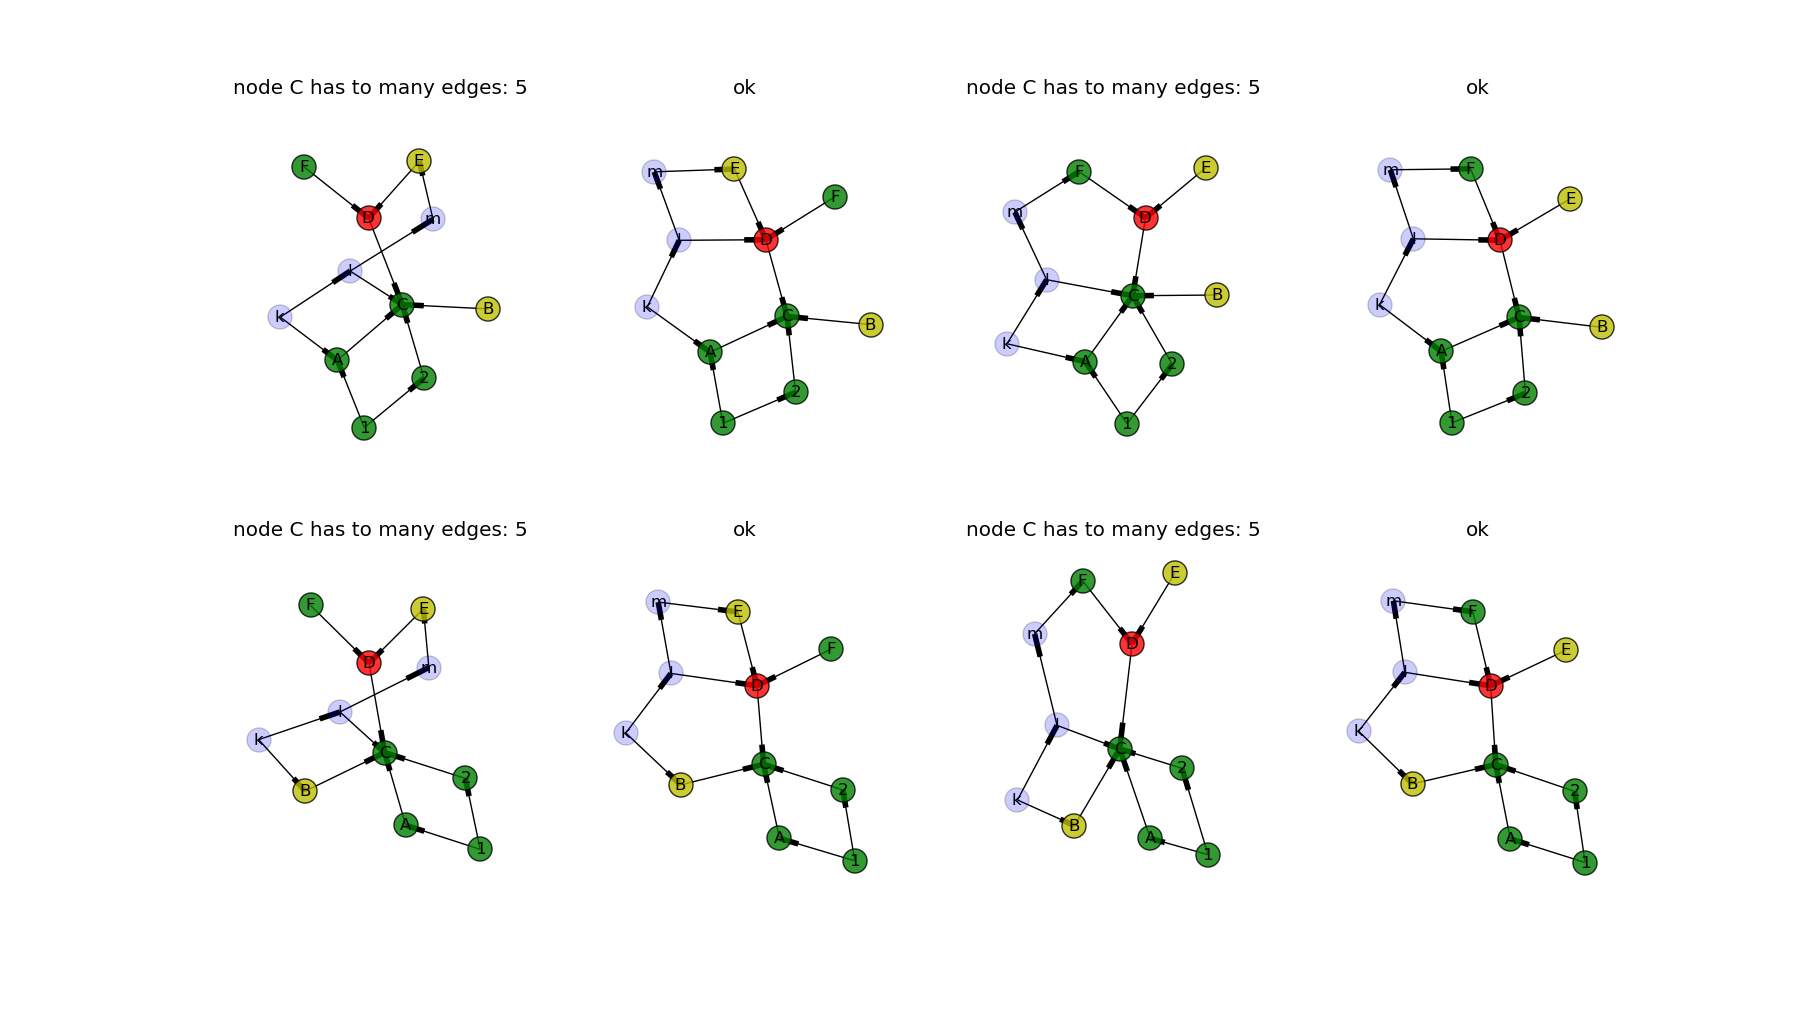
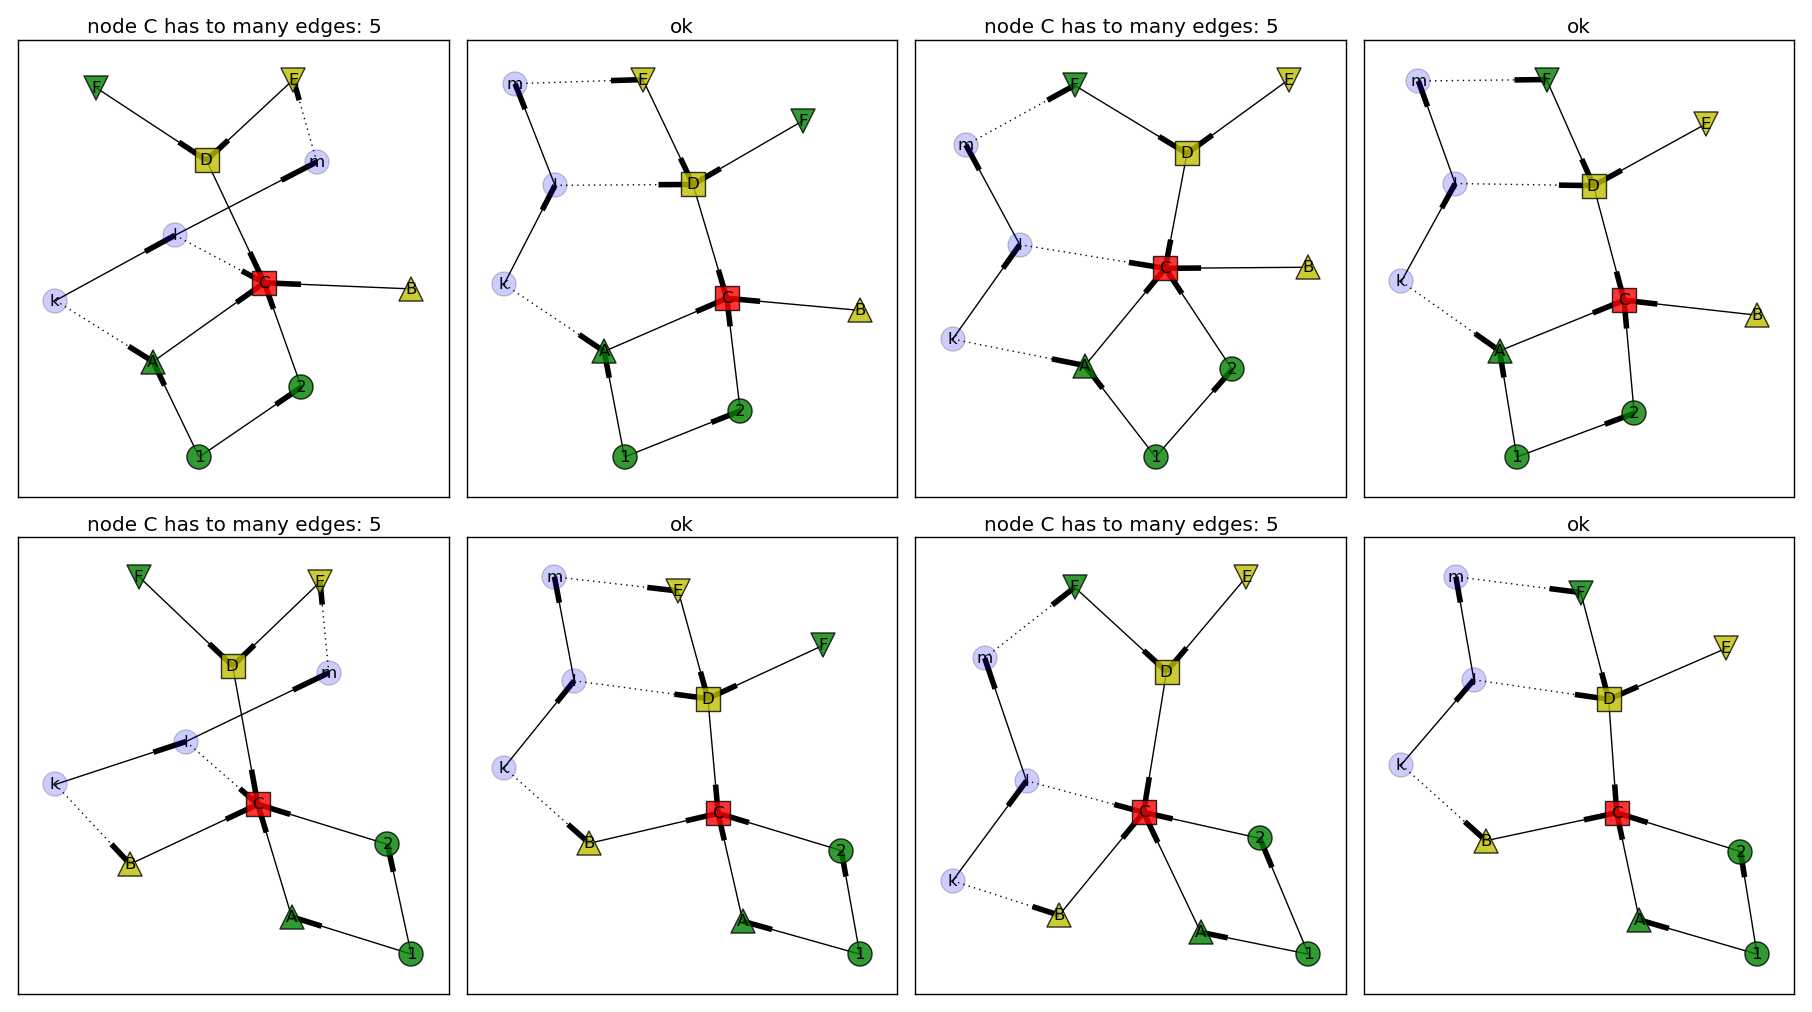
minor tweaks

diff --git a/stitcher/vis.py b/stitcher/vis.py
@@ -3,8 +3,7 @@
 import matplotlib.pyplot as plt
 import networkx as nx
 
-# TODO: display inital request & container; autoscale subplots; stiches as
-# dotted lines
+# TODO: auto scale subplots
 
 
 def show(graphs, new_nodes, results, prog='neato', size=(2, 4)):
@@ -17,7 +16,11 @@ def show(graphs, new_nodes, results, prog='neato', size=(2, 4)):
     y = 0
     i = 0
     for candidate in graphs:
-        axarr[x, y].axis('off')
+        # axarr[x, y].axis('off')
+        axarr[x, y].xaxis.set_major_formatter(plt.NullFormatter())
+        axarr[x, y].yaxis.set_major_formatter(plt.NullFormatter())
+        axarr[x, y].xaxis.set_ticks([])
+        axarr[x, y].yaxis.set_ticks([])
         axarr[x, y].set_title(results[i])
         axarr[x, y].set_axis_bgcolor("white")
         _plot_sub_plot(candidate, new_nodes, prog, axarr[x, y])
@@ -26,6 +29,7 @@ def show(graphs, new_nodes, results, prog='neato', size=(2, 4)):
             y = 0
             x += 1
         i += 1
+    f.tight_layout()
     plt.show()
 
 
@@ -37,6 +41,25 @@ def _plot_sub_plot(graph, new_nodes, prog, ax):
     red_nodes = []
     blue_nodes = []
     for node, values in graph.nodes(data=True):
+        shape = 'o'
+        if values['type'] == 'a':
+            shape = '^'
+        if values['type'] == 'b':
+            shape = 's'
+        if values['type'] == 'c':
+            shape = 'v'
+        color = 'g'
+        alpha = 0.8
+        if node in new_nodes:
+            color = 'b'
+            alpha = 0.2
+        elif 'rank' in values and values['rank'] > 7:
+            color = 'r'
+        elif 'rank' in values and values['rank'] < 7 and values['rank'] > 3:
+            color = 'y'
+        nx.draw_networkx_nodes(graph, pos, nodelist=[node], node_color=color,
+                               node_shape=shape, alpha=alpha, ax=ax)
+
         if node in new_nodes:
             blue_nodes.append(node)
         elif 'rank' in values and values['rank'] > 7:
@@ -46,19 +69,17 @@ def _plot_sub_plot(graph, new_nodes, prog, ax):
         else:
             green_nodes.append(node)
 
-    # draw nodes with rank between 0-3 green, 3-7 yellow, 7-10 red
-    nx.draw_networkx_nodes(graph, pos, nodelist=green_nodes, node_color='g',
-                           alpha=0.8, ax=ax)
-    nx.draw_networkx_nodes(graph, pos, nodelist=yellow_nodes, node_color='y',
-                           alpha=0.8, ax=ax)
-    nx.draw_networkx_nodes(graph, pos, nodelist=red_nodes, node_color='r',
-                           alpha=0.8, ax=ax)
-    # new nodes are blue
-    nx.draw_networkx_nodes(graph, pos, nodelist=blue_nodes, node_color='b',
-                           alpha=0.2, ax=ax)
-
     # draw the edges
-    nx.draw_networkx_edges(graph, pos, ax=ax)
+    dotted_line = []
+    normal_line = []
+    for s, t in graph.edges():
+        if s in new_nodes and t not in new_nodes:
+            dotted_line.append((s, t))
+        else:
+            normal_line.append((s, t))
+    nx.draw_networkx_edges(graph, pos, edgelist=dotted_line, style='dotted',
+                           ax=ax)
+    nx.draw_networkx_edges(graph, pos, edgelist=normal_line, ax=ax)
 
-    # draw edges
+    # draw labels
     nx.draw_networkx_labels(graph, pos, ax=ax)

diff --git a/stitcher/stitch.py b/stitcher/stitch.py
@@ -138,6 +138,6 @@ class NodeRankstitcher(Basestitcher):
                     tmp = condition[values['type']]
                 if len(candidate.in_edges(node)) >= tmp[0] \
                         and values['rank'] >= tmp[1]:
-                    res[i] = 'node ' + str(node) + ' has a to high rank.'
+                    res[i] = 'node ' + str(node) + ' has a high rank.'
             i += 1
         return res
